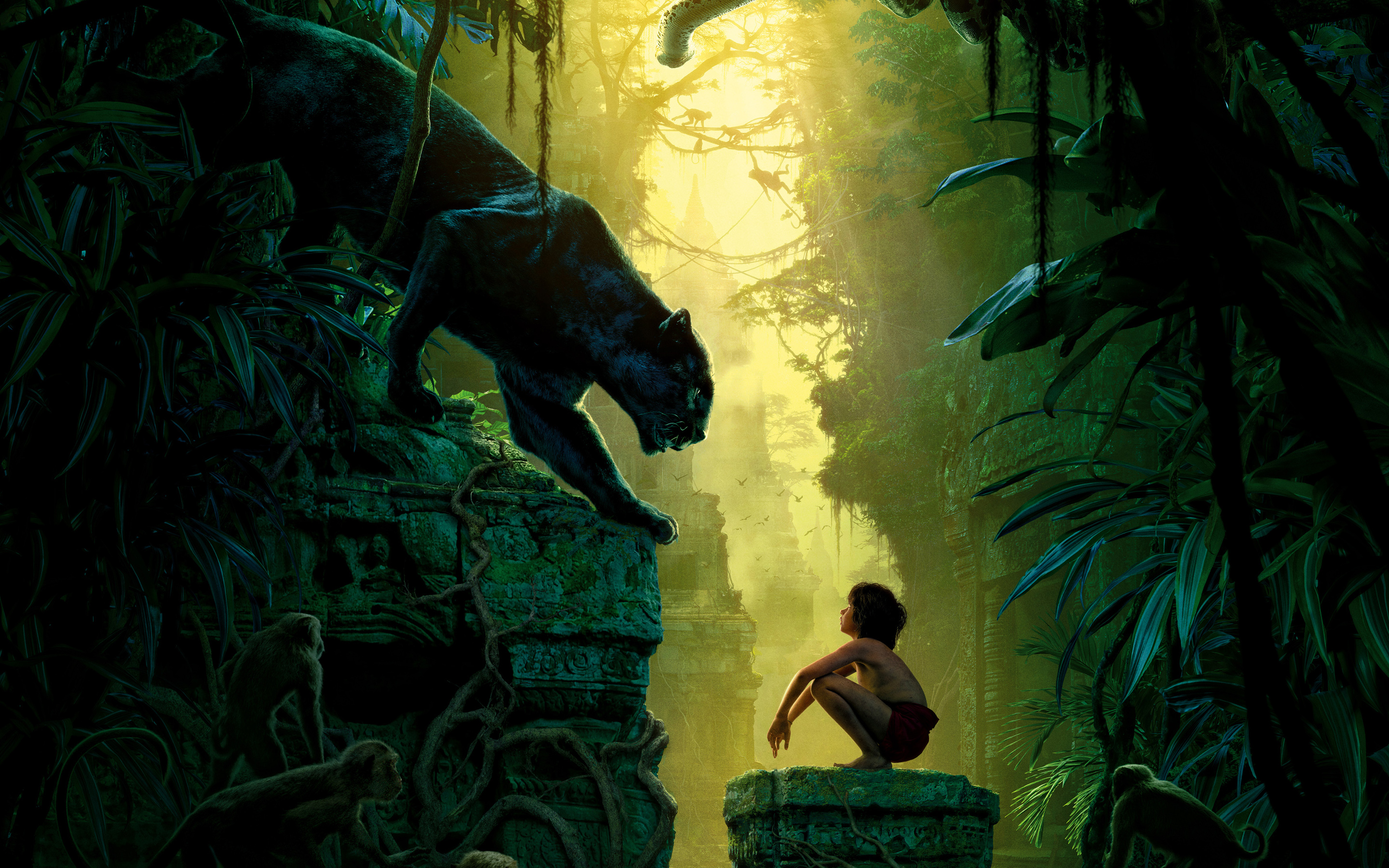
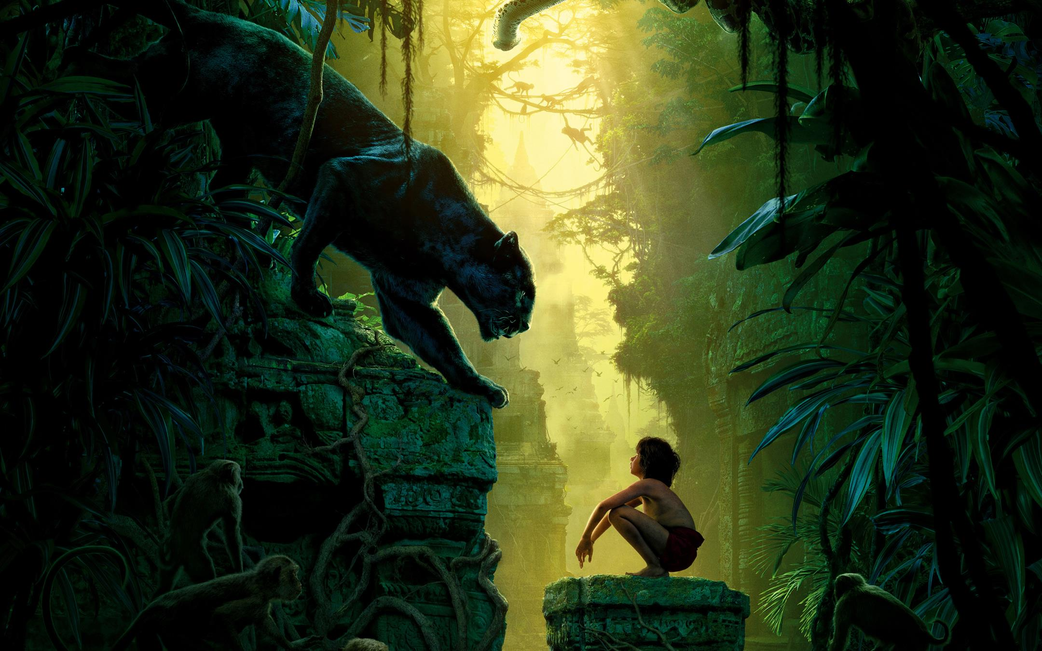
Se trabajo en todas las imagenes para aumentar los tiempos de carga en el reto y sea mas ameno para el usuario

Changed region(s): [[0.7134, 0.8711, 0.7755, 0.9333], [0.2792, 0.0, 0.3102, 0.0311]]

diff --git a/quinta-pregunta.html b/quinta-pregunta.html
@@ -8,9 +8,9 @@
   <link rel="stylesheet" href="css/style.css">
   <title>Reto Javascript Rio Software</title>
   <script type="text/javascript">
-    function disableBack() {window.history.forward();}/* este metodo solo funciona si existe una pagina siguiente */
-    setTimeout("disableBack()", 0);
-    window.onunload = function () {null};/*este evento se activa o ejecuta una accion cuando el usuario ha abandonado la pagina web*/
+    function disableBack() {window.history.forward();}/* este metodo del objeto history solo funciona si existe una pagina siguiente a la que el usuario se encuentra, en este orden de ideas cuando el usuario avance a la pagina siguiente e intente volver a la pagina anterior no lo dejara, ya que si esta lo intenta siempre lo redirigira a la pagina actual en la que se encuentre*/
+    setTimeout("disableBack()", 0);/*Este setTimeout funciona para ejecutar la funcion disableBack() inmediatamente */
+    window.onunload = function () { null };/*este controlador de evento se activa o ejecuta una accion cuando el usuario ha abandonado la pagina web o cierra la misma, esto crea una funcion que contiene argumentos null*/
   </script>
 </head>
 

diff --git a/cuarta-pregunta.html b/cuarta-pregunta.html
@@ -8,9 +8,9 @@
   <link rel="stylesheet" href="css/style.css">
   <title>Reto Javascript Rio Software</title>
   <script type="text/javascript">
-    function disableBack() {window.history.forward();}
-    setTimeout("disableBack()", 0);
-    window.onunload = function () {null};
+    function disableBack() {window.history.forward();}/* este metodo del objeto history solo funciona si existe una pagina siguiente a la que el usuario se encuentra, en este orden de ideas cuando el usuario avance a la pagina siguiente e intente volver a la pagina anterior no lo dejara, ya que si esta lo intenta siempre lo redirigira a la pagina actual en la que se encuentre*/
+    setTimeout("disableBack()", 0);/*Este setTimeout funciona para ejecutar la funcion disableBack() inmediatamente */
+    window.onunload = function () { null };/*este controlador de evento se activa o ejecuta una accion cuando el usuario ha abandonado la pagina web o cierra la misma, esto crea una funcion que contiene argumentos null*/
   </script>
 </head>
 

diff --git a/tercera-pregunta.html b/tercera-pregunta.html
@@ -8,9 +8,9 @@
   <link rel="stylesheet" href="css/style.css">
   <title>Reto Javascript Rio Software</title>
   <script type="text/javascript">
-    function disableBack() {window.history.forward();}
-    setTimeout("disableBack()", 0);
-    window.onunload = function () {null};
+    function disableBack() {window.history.forward();}/* este metodo del objeto history solo funciona si existe una pagina siguiente a la que el usuario se encuentra, en este orden de ideas cuando el usuario avance a la pagina siguiente e intente volver a la pagina anterior no lo dejara, ya que si esta lo intenta siempre lo redirigira a la pagina actual en la que se encuentre*/
+    setTimeout("disableBack()", 0);/*Este setTimeout funciona para ejecutar la funcion disableBack() inmediatamente */
+    window.onunload = function () { null };/*este controlador de evento se activa o ejecuta una accion cuando el usuario ha abandonado la pagina web o cierra la misma, esto crea una funcion que contiene argumentos null*/
   </script>
 </head>
 

diff --git a/resultado-respuestas.html b/resultado-respuestas.html
@@ -5,7 +5,7 @@
   <meta http-equiv="X-UA-Compatible" content="IE=edge">
   <meta name="viewport" content="width=device-width, initial-scale=1.0">
   <link rel="stylesheet" href="css/style.css">
-  <title>Resultados</title>
+  <title>Resultados de respuestas</title>
 </head>
 <body>
   <div class="container">
